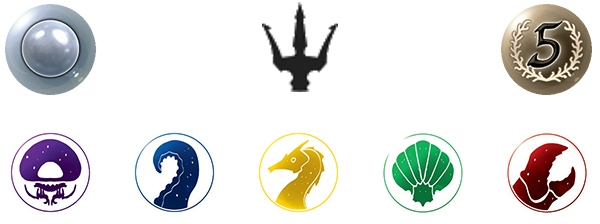
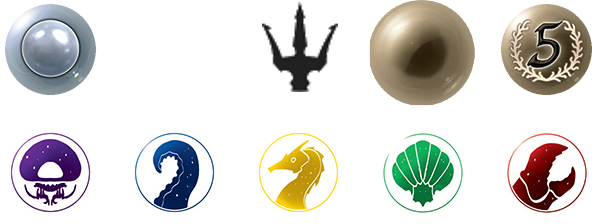
update help button

Changed region(s): [[0.6, 0.0, 0.81, 0.4688]]

diff --git a/src/help.scss b/src/help.scss
@@ -4,7 +4,11 @@
     left: 5px;
     width: 50px;
     height: 50px;
-    background-color: white;
+    background: url('img/tokens.png');
+    background-position: 73% 5%;
+    background-size: 800%;
+    font-weight: bold;
+    text-shadow: 0 0 4px white;
     border-radius: 25px;
     border: 1px solid #777;
     box-shadow: 3px 5px 5px 0px rgb(0 0 0);
@@ -14,7 +18,7 @@
 }
 
 /* we show help button if user has no mouse ( = no tooltips) */
-@media (pointer: fine) {
+@media (hover: hover) {
     #conspiracy-help-button {
         display: none;
     }

diff --git a/conspiracy.css b/conspiracy.css
@@ -334,7 +334,11 @@
   left: 5px;
   width: 50px;
   height: 50px;
-  background-color: white;
+  background: url("img/tokens.png");
+  background-position: 73% 5%;
+  background-size: 800%;
+  font-weight: bold;
+  text-shadow: 0 0 4px white;
   border-radius: 25px;
   border: 1px solid #777;
   box-shadow: 3px 5px 5px 0px black;
@@ -344,7 +348,7 @@
 }
 
 /* we show help button if user has no mouse ( = no tooltips) */
-@media (pointer: fine) {
+@media (hover: hover) {
   #conspiracy-help-button {
     display: none;
   }
